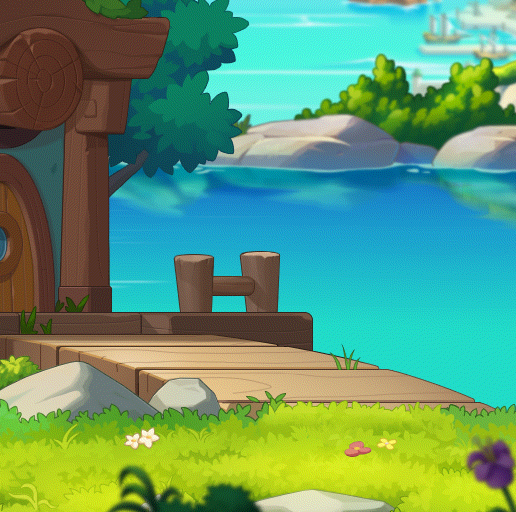
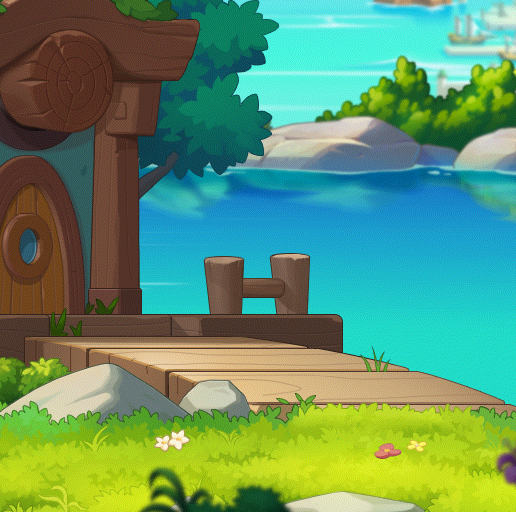
미리보기 맵 배경 버섯집, 거처 앞을 운영에 냄
- 유랑자의 거처 안을 빼고 거처 앞을 데크 위 살짝 왼쪽으로(사용자 지시)
- dev 전용 표시(CashBg.dev)를 지움, 가이드 낱말도 늘 보이게
- ARCHITECTURE 갱신

diff --git a/src/lib/stageBg.ts b/src/lib/stageBg.ts
@@ -3,7 +3,6 @@
 //  · 올린 그림은 긴 변 1000px 로 줄여 JPEG 로 담는다 — localStorage 는 5MB 남짓이고 프리셋과 나눠 쓴다(원본을 그대로 담으면 한두 장에 찬다).
 //  · 여덟 장까지. 담지 못하면(용량) 없던 일로 하고 알린다.
 import { useSyncExternalStore } from 'react'
-import { DEV_SITE } from './catalog'
 
 export interface StageBgImage { id: string; src: string }
 export interface StageBg { sel: string; images: StageBgImage[] }   // sel = 'room' | 'white' | 'black' | 'system'(시스템 테마 — 라이트 #f7f2ec · 다크 카드 색) | 캐시샵 배경(cs0~cs4) | 올린 그림의 id
@@ -11,20 +10,19 @@ export interface StageBg { sel: string; images: StageBgImage[] }   // sel = 'roo
 // 캐시샵 배경(public/stagebg). 게임 캐시샵(리마스터) 미리보기의 배경 다섯 장
 // (UI.wz UICashShop.img/avatarView/layer:preview_back0~4, 516×512 — 원본 그대로 무손실 WebP). 짝인 preview_cover 는 위아래 가장자리를
 // 게임 창 색으로 흐리는 테두리라 넣지 않는다. ground = 그림 위에서 캐릭터가 딛는 줄(세 장의 바닥이 모두 이 줄), top · bottom = 그림 밖을 채우는 색.
-// 맵 배경(home-* — 메이플 홈의 버섯집 1층 · 유랑자의 거처 2층 · 유랑자의 거처 앞 나무 데크)도 같은 꼴로 이 목록에 있다 — parser scripts/stagebg-build.cjs 가 게임 맵을 잘라 만든다
-// (516×512, 바닥 줄 362 를 그 자리의 발판 · 그림의 바닥 윗선에 맞춘다). dev = dev 사이트에서만(사용자 지시 — 먼저 dev 에)
-export interface CashBg { id: string; label: string; src: string; top: string; bottom: string; dev?: boolean }
+// 맵 배경(home-* — 메이플 홈의 버섯집 1층 · 유랑자의 거처 앞 나무 데크)도 같은 꼴로 이 목록에 있다 — parser scripts/stagebg-build.cjs 가 게임 맵을 잘라 만든다
+// (516×512, 바닥 줄 362 를 그 자리의 발판 · 그림의 바닥 윗선에 맞춘다)
+export interface CashBg { id: string; label: string; src: string; top: string; bottom: string }
 export const CASH_BG_W = 516, CASH_BG_H = 512, CASH_BG_GROUND = 362
-export const CASH_BGS: CashBg[] = ([
+export const CASH_BGS: CashBg[] = [
   { id: 'cs0', label: '버섯 집', src: '/stagebg/cs0.webp', top: '#26b2ff', bottom: '#ccd7e6' },
   { id: 'cs1', label: '숲', src: '/stagebg/cs1.webp', top: '#2c8bb5', bottom: '#08233c' },
   { id: 'cs2', label: '선술집', src: '/stagebg/cs2.webp', top: '#a68d7f', bottom: '#100b07' },
   { id: 'cs3', label: '흰 사다리', src: '/stagebg/cs3.webp', top: '#ffffff', bottom: '#ffffff' },
   { id: 'cs4', label: '검은 사다리', src: '/stagebg/cs4.webp', top: '#292a2a', bottom: '#292a2a' },
-  { id: 'home-mush', label: '버섯집', src: '/stagebg/home-mush.webp', top: '#ccaa77', bottom: '#554433', dev: true },
-  { id: 'home-wander', label: '유랑자의 거처', src: '/stagebg/home-wander.webp', top: '#bbdddd', bottom: '#99aabb', dev: true },
-  { id: 'home-wander-out', label: '거처 앞', src: '/stagebg/home-wander-out.webp', top: '#66eeee', bottom: '#ddddbb', dev: true },
-] as CashBg[]).filter((c) => DEV_SITE || !c.dev)
+  { id: 'home-mush', label: '버섯집', src: '/stagebg/home-mush.webp', top: '#ccaa77', bottom: '#554433' },
+  { id: 'home-wander-out', label: '거처 앞', src: '/stagebg/home-wander-out.webp', top: '#66ddee', bottom: '#bbdd22' },
+]
 // 파일이 있을 때만(dev) 고를 수 있다 — 한 번만 본다
 let cashOn: Promise<boolean> | null = null
 export const cashBgsOn = () => (cashOn ??= fetch(CASH_BGS[0].src, { method: 'HEAD' }).then((r) => r.ok).catch(() => false))

diff --git a/src/lib/guide.ts b/src/lib/guide.ts
@@ -99,7 +99,7 @@ export const GUIDE: GuideEntry[] = [
   { id: 'dot', title: '점 위치 옮기기', words: '점, 얼굴 점, 점 옮기기, 위치 조절',
     how: '점이 있는 얼굴장식을 입고\n위쪽의 캐릭터 화면 오른쪽 아래에 있는\n점 버튼을 누르면 옮길 수 있어요.', go: { tab: 'preview', spot: 'dot' },
     pc: { how: '점이 있는 얼굴장식을 입고\n오른쪽의 캐릭터 화면 오른쪽 위에 있는\n[점 위치] 버튼을 누르면 옮길 수 있어요.' } },
-  { id: 'bg', title: '캐릭터 배경 바꾸기', words: '배경, 배경 바꾸기, 미리보기 배경, 코디 배경, 흰 배경, 검은 배경, 내 사진, 배경 업로드, 피팅룸, 캐시샵 배경, 버섯 집, 시스템 배경, 다크 배경, 프리셋 배경, 프리셋마다 배경' + (DEV_SITE ? ', 메이플 홈 배경, 메이플 홈 집 안, 버섯집, 유랑자의 거처' : ''),
+  { id: 'bg', title: '캐릭터 배경 바꾸기', words: '배경, 배경 바꾸기, 미리보기 배경, 코디 배경, 흰 배경, 검은 배경, 내 사진, 배경 업로드, 피팅룸, 캐시샵 배경, 버섯 집, 시스템 배경, 다크 배경, 프리셋 배경, 프리셋마다 배경, 메이플 홈 배경, 메이플 홈 집 안, 버섯집, 유랑자의 거처',
     how: '위쪽의 캐릭터 화면 왼쪽 아래에 있는\n그림 버튼을 누르면 바꿀 수 있어요.\n배경은 프리셋마다 따로 저장돼요.', go: { tab: 'preview', sheet: 'bg' },
     pc: { how: '오른쪽의 캐릭터 화면 왼쪽 위에 있는\n[배경] 버튼을 누르면 바꿀 수 있어요.\n배경은 프리셋마다 따로 저장돼요.' } },
   { id: 'image', title: '캐릭터 이미지 저장, 복사', words: '이미지 저장, 사진 저장, 캡처, png, 다운로드, 복사, 이미지 복사, 투명 배경 이미지, 갤러리 저장, 앨범 저장',
